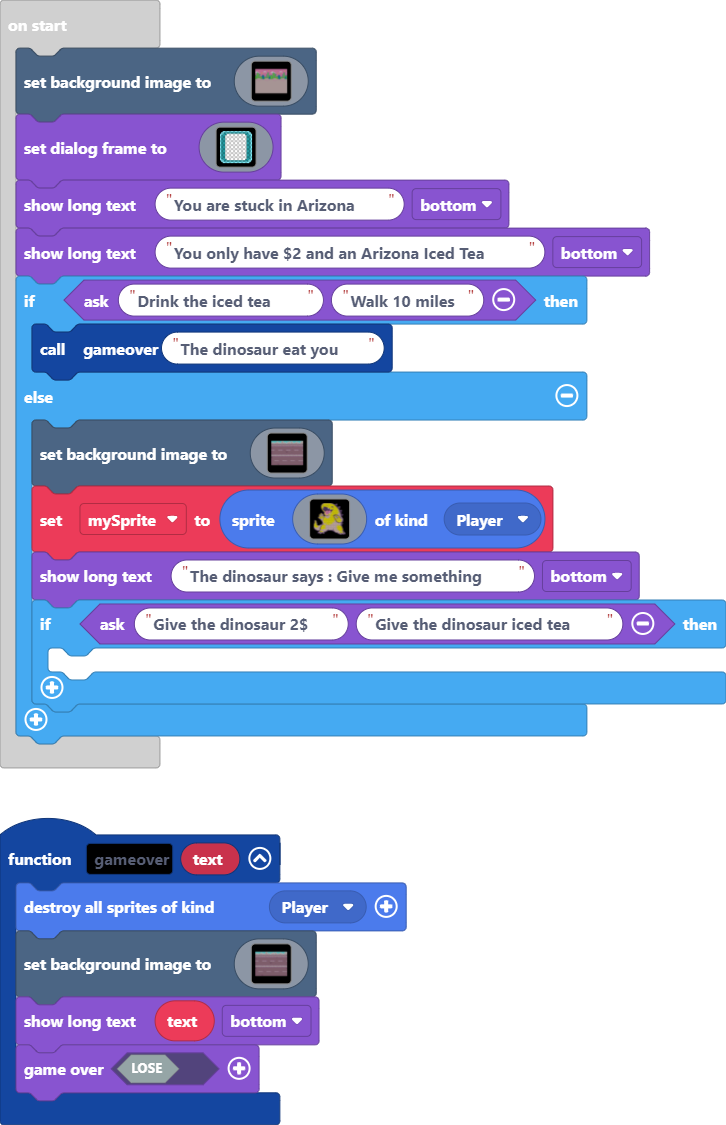
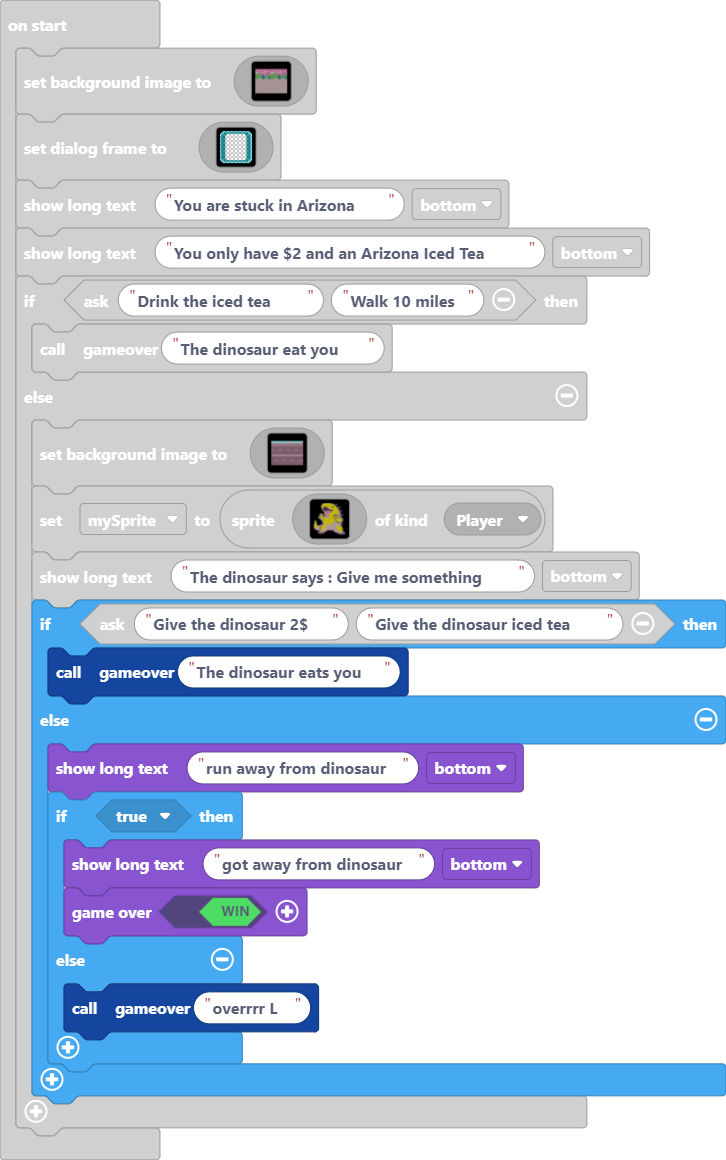
new

diff --git a/main.ts b/main.ts
@@ -481,6 +481,14 @@ if (game.ask("Drink the iced tea ", "Walk 10 miles")) {
         `, SpriteKind.Player)
     game.showLongText("The dinosaur says : Give me something", DialogLayout.Bottom)
     if (game.ask("Give the dinosaur 2$", "Give the dinosaur iced tea")) {
-    	
+        gameover("The dinosaur eats you")
+    } else {
+        game.showLongText("run away from dinosaur", DialogLayout.Bottom)
+        if (true) {
+            game.showLongText("got away from dinosaur", DialogLayout.Bottom)
+            game.over(true)
+        } else {
+            gameover("overrrr L")
+        }
     }
 }
